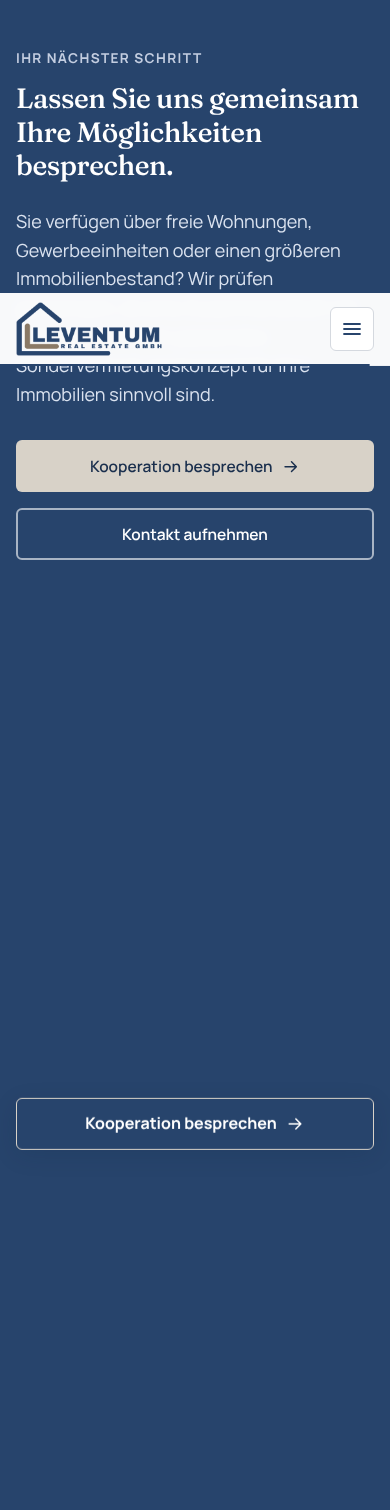
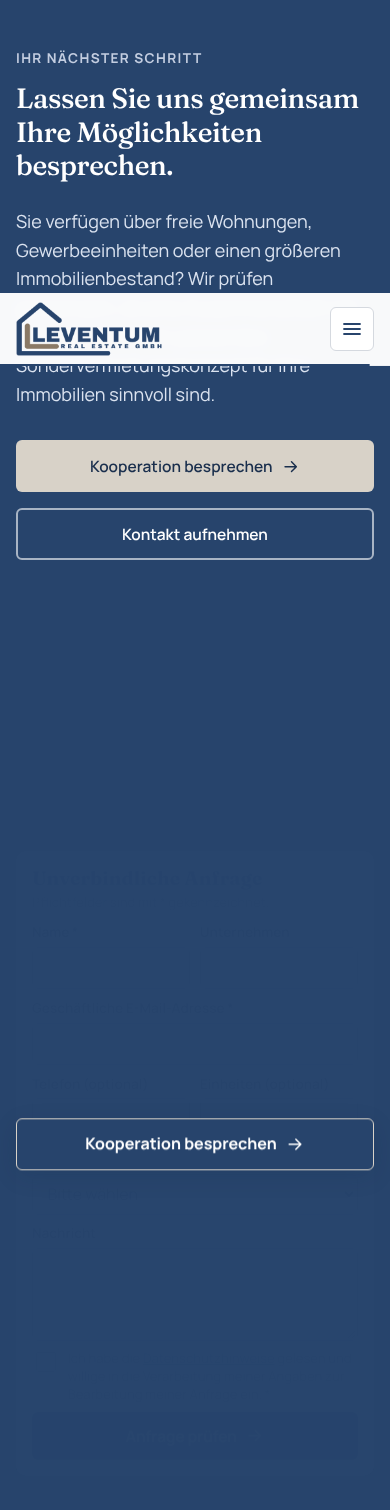
Investorenseite: Hero mit drei Stichpunkten, Bild sofort sichtbar
Claude-Session: https://claude.ai/code/session_01KEcscF8ABiEHPf9rzLQ9PG

Changed region(s): [[0.2154, 0.7159, 0.7077, 0.7781], [0.7385, 0.7159, 0.7692, 0.7781]]

diff --git a/css/investoren.css b/css/investoren.css
@@ -8,7 +8,7 @@
 .inv-hero h1 { font-size: min(var(--fs-h1), 7.4cqw); color: var(--navy-900); font-weight: 500; }
 .inv-hero h1 .ln-block { white-space: nowrap; }
 .inv-tagline { margin-top: 0.7rem; font-family: var(--font-serif); font-weight: 500; font-size: clamp(1.15rem, 0.95rem + 1vw, 1.6rem); line-height: 1.25; color: var(--taupe); }
-.inv-lead { margin-top: var(--space-3); max-width: 54ch; color: var(--grey-700); }
+.inv-hero .hero-points { margin-top: var(--space-3); }
 .inv-hero-figure { position: relative; margin: 0 calc((min(100vw - 32px, var(--container)) - 100vw) / 2) 0 0; min-width: 0; }
 .inv-hero-figure img { width: 100%; height: 100%; object-fit: cover; object-position: 55% 50%; -webkit-mask-image: linear-gradient(to right, transparent 0, #000 24%); mask-image: linear-gradient(to right, transparent 0, #000 24%); }
 .inv-float { position: absolute; right: max(16px, calc((100vw - var(--container)) / 2 + 0px)); bottom: 28px; display: flex; gap: 0.8rem; align-items: flex-start; max-width: 300px; padding: 0.9rem 1rem; background: rgba(255, 255, 255, 0.94); border: 1px solid var(--sand); border-radius: var(--radius-md); box-shadow: var(--shadow-md); font-size: 0.88rem; color: var(--grey-700); line-height: 1.4; }
@@ -125,3 +125,16 @@
 /* Warum Leventum: keine automatische Silbentrennung in Titeln, auf dem Handy mehr Bild über der Textkarte */
 .inv-why h3, .inv-step h3, .inv-body h3 { hyphens: manual; }
 @media (max-width: 1100px) { .inv-photo { min-height: 440px; } .inv-photo > img { object-position: 45% 30%; } }
+
+/* Hero kompakt auf Handy und Tablet: Buttons und ein Stück Bild sofort sichtbar */
+@media (max-width: 760px) {
+  .inv-hero-copy { padding: 14px 0 0; }
+  .inv-hero .eyebrow { margin-bottom: 0.45rem; font-size: 0.82rem; }
+  .inv-hero h1 { font-size: min(1.72rem, 7.4cqw); }
+  .inv-tagline { margin-top: 0.4rem; font-size: 1.02rem; }
+  .inv-hero .hero-points { gap: 0.4rem; margin-top: 0.8rem; }
+  .inv-hero .hero-points li { font-size: 0.97rem; padding-left: 1.7rem; }
+  .inv-hero .btn-row { margin-top: 0.9rem; gap: 0.5rem; }
+  .inv-hero .btn-lg { min-height: 48px; }
+  .inv-hero-figure img { aspect-ratio: 2 / 1; }
+}

diff --git a/investoren.html b/investoren.html
@@ -24,7 +24,7 @@
   <link rel="stylesheet" href="css/base.css?v=e09bdd14">
   <link rel="stylesheet" href="css/components.css?v=ea470df2">
   <link rel="stylesheet" href="css/sections.css?v=06c39ffd">
-  <link rel="stylesheet" href="css/investoren.css?v=6f2c0518">
+  <link rel="stylesheet" href="css/investoren.css?v=5660d63e">
   <script>document.documentElement.classList.add('js');</script>
 </head>
 <body>
@@ -99,7 +99,11 @@
           <p class="eyebrow">Investorenprogramm</p>
           <h1 id="inv-title"><span class="ln-block">Gemeinsam in</span><span class="ln-block">Immobilien investieren.</span></h1>
           <p class="inv-tagline">Mit Know-how. Mit Konzept. Mit Leventum.</p>
-          <p class="inv-lead">Sie möchten Kapital in Immobilien investieren und suchen einen Partner, der nicht nur Konzepte entwickelt, sondern auch die operative Umsetzung übernimmt? LEVENTUM REAL ESTATE verbindet Immobilien, individuelle Nutzungskonzepte und professionelles Management. Gemeinsam entwickeln wir passende Investmentstrukturen, von langfristig gehaltenen Bestandsimmobilien bis zu aktiv betreuten Immobilienprojekten.</p>
+          <ul class="hero-points">
+            <li>Immobilien, Nutzungskonzepte und Management aus einer Hand</li>
+            <li>Von Bestandsimmobilien bis zu betreuten Projekten</li>
+            <li>Individuelle Strukturen, vertraglich geregelt</li>
+          </ul>
           <div class="btn-row">
             <a class="btn btn-primary btn-lg" href="#modelle" data-cta="inv-hero-primary">Investitionsmöglichkeiten entdecken <svg class="icon" aria-hidden="true"><use href="#i-arrow"/></svg></a>
             <a class="btn btn-outline btn-lg" href="#kontakt" data-cta="inv-hero-secondary">Beratungsgespräch vereinbaren</a>
